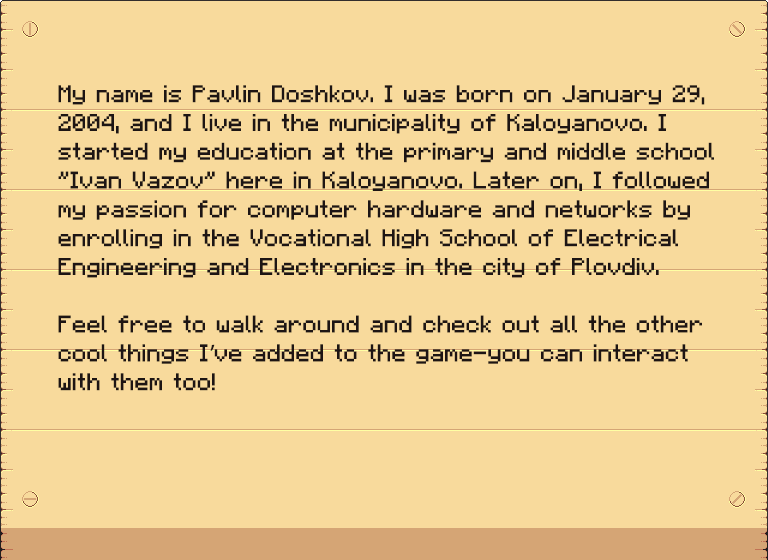
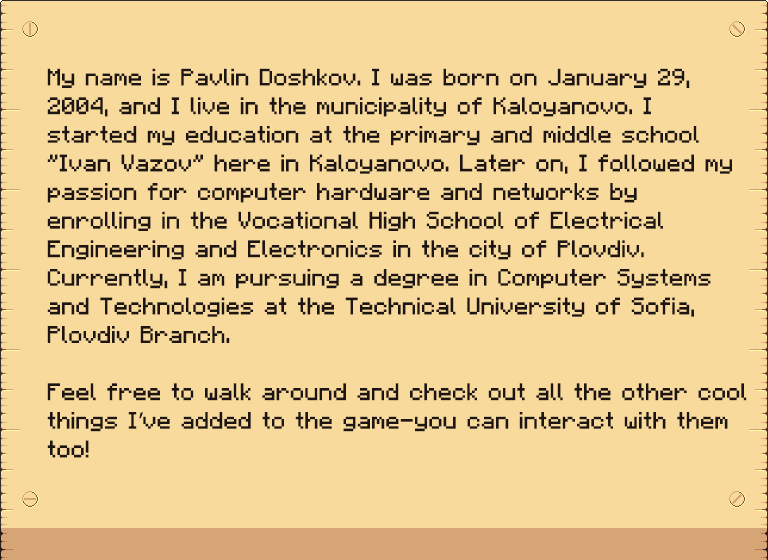
Finilizing the CV | Added more description for me!

Changed region(s): [[0.0312, 0.1214, 0.9688, 0.8196]]

diff --git a/src/triggers_manager.cpp b/src/triggers_manager.cpp
@@ -12,10 +12,22 @@ Triggers::Triggers(const float& TileSize, const float& Scale, const int& ScreenW
 	m_TileSize(TileSize),
 	m_Scale(Scale),
 	m_OpacityBoxPosition({ 0,0 }),
-	m_OpacityBoxSize({ (float)ScreenWidth * 2, (float)ScreenHeight * 2 }),
-	m_GroundMap(groundMap)
+	m_OpacityBoxSize({ (float)ScreenWidth * 3, (float)ScreenHeight * 3 }),
+	m_GroundMap(groundMap),
+	m_NoteCycleErasmus(STATE_INTRO),
+	m_NoteCycleUniversity(STATE_INTRO),
+	m_OsuCycle(STATE_INTRO)
 {
-	m_Scroll = LoadFilteredTexture(RESOURCES_PATH "Map/description of me.png");
+	m_Board = LoadFilteredTexture(RESOURCES_PATH "Map/description of me.png");
+	m_Board2 = LoadFilteredTexture(RESOURCES_PATH "Map/description of work at btl.png");
+	m_Board3_1 = LoadFilteredTexture(RESOURCES_PATH "Map/description of Erasmus1.png");
+	m_Board3_2 = LoadFilteredTexture(RESOURCES_PATH "Map/description of Erasmus2.png");
+	m_Board3_3 = LoadFilteredTexture(RESOURCES_PATH "Map/description of Erasmus3.png");
+	m_Board4_1 = LoadFilteredTexture(RESOURCES_PATH "Map/description of university1.png");
+	m_Board4_2 = LoadFilteredTexture(RESOURCES_PATH "Map/description of university2.png");
+	m_Board4_4 = LoadFilteredTexture(RESOURCES_PATH "Map/description of university3.png");
+	m_Board4_3 = LoadFilteredTexture(RESOURCES_PATH "Map/description of university4.png");
+	m_OsuNote = LoadFilteredTexture(RESOURCES_PATH "Map/osuletter1.png");
 	m_E_Letter = LoadFilteredTexture(RESOURCES_PATH "letters/letter_e_press.png");
 	m_Q_Letter = LoadFilteredTexture(RESOURCES_PATH "letters/letter_q_press.png");
 	m_BookDesk = LoadFilteredTexture(RESOURCES_PATH "pop-ups/5-manga+comment.png");
@@ -31,7 +43,15 @@ Triggers::Triggers(const float& TileSize, const float& Scale, const int& ScreenW
 }
 
 Triggers::~Triggers() {
-	UnloadTexture(m_Scroll);
+	UnloadTexture(m_Board);
+	UnloadTexture(m_Board2);
+	UnloadTexture(m_Board3_1);
+	UnloadTexture(m_Board3_2);
+	UnloadTexture(m_Board3_3);
+	UnloadTexture(m_Board4_1);
+	UnloadTexture(m_Board4_2);
+	UnloadTexture(m_Board4_3);
+	UnloadTexture(m_Board4_4);
 	UnloadTexture(m_E_Letter);
 	UnloadTexture(m_Q_Letter);
 	UnloadTexture(m_BookDesk);
@@ -99,6 +119,9 @@ void Triggers::update(const Vector2& Pos, std::function<void(Vector2)> changePos
 		m_NoteTrigger.updateTrigger(correctCollision, m_TriggersLevel[Scene::Level::village][TRIGGER_NOTE]);
 		m_TelescopeTrigger.updateTrigger(correctCollision, m_TriggersLevel[Scene::Level::village][TRIGGER_TELESCOPE]);
 		m_BookTrigger.updateTrigger(correctCollision, m_TriggersLevel[Scene::Level::village][TRIGGER_BOOK]);
+		m_NoteTrigger2.updateTrigger(correctCollision, m_TriggersLevel[Scene::Level::village][TRIGGER_NOTE2]);
+		m_NoteTrigger3_1.updateTrigger(correctCollision, m_TriggersLevel[Scene::Level::village][TRIGGER_NOTE3]);
+		m_NoteTrigger4_1.updateTrigger(correctCollision, m_TriggersLevel[Scene::Level::village][TRIGGER_NOTE4]);
 		break;
 	}
 	case Scene::Level::insideHouse: {
@@ -145,7 +168,7 @@ void Triggers::draw(const Vector2& Pos, const Vector2& cameraPos, Scene::Level c
 	}
 	if (m_NoteTrigger.isActive()) {
 		DrawRectangleV(m_OpacityBoxPosition, m_OpacityBoxSize, Fade(BLACK, 0.75));
-		DrawTexture(m_Scroll, cameraPos.x - 400, cameraPos.y - 300, WHITE);
+		DrawTexture(m_Board, cameraPos.x - 400, cameraPos.y - 300, WHITE);
 		DrawTexture(m_Q_Letter, cameraPos.x - 100, cameraPos.y + 300, WHITE);
 	}
 
@@ -161,25 +184,44 @@ void Triggers::draw(const Vector2& Pos, const Vector2& cameraPos, Scene::Level c
 		DrawTexture(m_E_Letter, Pos.x + 5, Pos.y - 5, WHITE);
 	}
 
-
 	if (m_TvTrigger.isActive()) {
-		m_FrameCounter++;
 
-		if (m_FrameCounter >= m_FrameDelay)
-		{
-			m_CurrentAnimFrame++;
-			if (m_CurrentAnimFrame >= m_Frames) m_CurrentAnimFrame = 0;
-
-			m_NextFrameDataOffset = m_AnimOsu.width * m_AnimOsu.height * 4 * m_CurrentAnimFrame;
-
-			UpdateTexture(m_AnimOsu, ((unsigned char*)m_AnimOsuImage.data) + m_NextFrameDataOffset);
-
-			m_FrameCounter = 0;
+		if (IsKeyPressed(KEY_E)) {
+			++m_OsuCycle;
+			m_OsuCycle %= 3;
 		}
 		DrawRectangleV(m_OpacityBoxPosition, m_OpacityBoxSize, Fade(BLACK, 0.75));
-		DrawTexture(m_TexTv, m_GroundMap[28][0].x, m_GroundMap[0][3].y, WHITE);
-		DrawTexture(m_AnimOsu, m_GroundMap[32][0].x - m_TileSize, m_GroundMap[0][7].y + m_TileSize, WHITE);
-		DrawTexture(m_Q_Letter, m_GroundMap[34][0].x + (m_TileSize * 2), m_GroundMap[0][14].y, WHITE);
+		switch (m_OsuCycle) {
+		case STATE_INTRO: {
+			DrawTexture(m_OsuNote, cameraPos.x - 400, cameraPos.y - 300, WHITE);
+			DrawTexture(m_Q_Letter, cameraPos.x - 105, cameraPos.y + 250, WHITE);
+			break;
+		}
+		case STATE_DESCRIPTION: {
+			m_FrameCounter++;
+			if (m_FrameCounter >= m_FrameDelay)
+			{
+				m_CurrentAnimFrame++;
+				if (m_CurrentAnimFrame >= m_Frames) m_CurrentAnimFrame = 0;
+
+				m_NextFrameDataOffset = m_AnimOsu.width * m_AnimOsu.height * 4 * m_CurrentAnimFrame;
+
+				UpdateTexture(m_AnimOsu, ((unsigned char*)m_AnimOsuImage.data) + m_NextFrameDataOffset);
+
+				m_FrameCounter = 0;
+			}
+
+			DrawTexture(m_TexTv, m_GroundMap[31][0].x + 8, m_GroundMap[0][7].y, WHITE);
+			DrawTexture(m_AnimOsu, m_GroundMap[32][0].x - m_TileSize, m_GroundMap[0][7].y + m_TileSize, WHITE);
+			DrawTexture(m_Q_Letter, m_GroundMap[34][0].x + (m_TileSize * 2), m_GroundMap[0][14].y, WHITE);
+			break;
+		}
+		default:
+			break;
+		}
+	}
+	else {
+		m_OsuCycle = 0;
 	}
 
 	if (m_BookTrigger.isPrompting()) {
@@ -200,5 +242,89 @@ void Triggers::draw(const Vector2& Pos, const Vector2& cameraPos, Scene::Level c
 		DrawRectangleV(m_OpacityBoxPosition, m_OpacityBoxSize, BLACK);
 		DrawTexture(m_TexTelescope, cameraPos.x - 475, cameraPos.y - 300, WHITE);
 		DrawTexture(m_Q_Letter, cameraPos.x - 75, cameraPos.y + 225, WHITE);
+	}
+
+	if (m_NoteTrigger2.isPrompting()) {
+		DrawTexture(m_E_Letter, Pos.x + 5, Pos.y - 5, WHITE);
+	}
+
+	if (m_NoteTrigger2.isActive()) {
+		DrawRectangleV(m_OpacityBoxPosition, m_OpacityBoxSize, Fade(BLACK, 0.75));
+		DrawTexture(m_Board2, cameraPos.x - 400, cameraPos.y - 300, WHITE);
+		DrawTexture(m_Q_Letter, cameraPos.x - 75, cameraPos.y + 300, WHITE);
+	}
+
+
+	if (m_NoteTrigger3_1.isPrompting()) {
+		DrawTexture(m_E_Letter, Pos.x + 5, Pos.y - 5, WHITE);
+	}
+
+	if (m_NoteTrigger3_1.isActive()) {
+		if (IsKeyPressed(KEY_E)) {
+			++m_NoteCycleErasmus;
+			m_NoteCycleErasmus %= 3;
+		}
+		DrawRectangleV(m_OpacityBoxPosition, m_OpacityBoxSize, Fade(BLACK, 0.75));
+		switch (m_NoteCycleErasmus) {
+		case STATE_INTRO: {
+			DrawTexture(m_Board3_1, cameraPos.x - 400, cameraPos.y - 300, WHITE);
+			DrawTexture(m_Q_Letter, cameraPos.x - 75, cameraPos.y + 300, WHITE);
+			break;
+			}
+		case STATE_DESCRIPTION: {
+			DrawTexture(m_Board3_2, cameraPos.x - 400, cameraPos.y - 300, WHITE);
+			DrawTexture(m_Q_Letter, cameraPos.x - 75, cameraPos.y + 300, WHITE);
+			break;
+			}
+		case STATE_ENDING: {
+			DrawTexture(m_Board3_3, cameraPos.x - 400, cameraPos.y - 300, WHITE);
+			DrawTexture(m_Q_Letter, cameraPos.x - 75, cameraPos.y + 300, WHITE);
+			break;
+			}
+		default:
+			break;
+		}
+	}
+	else {
+		m_NoteCycleErasmus = 0;
+	}
+
+	if (m_NoteTrigger4_1.isPrompting()) {
+		DrawTexture(m_E_Letter, Pos.x + 5, Pos.y - 5, WHITE);
+	}
+
+	if (m_NoteTrigger4_1.isActive()) {
+		if (IsKeyPressed(KEY_E)) {
+			++m_NoteCycleUniversity;
+			m_NoteCycleUniversity %= 4;
+		}
+		DrawRectangleV(m_OpacityBoxPosition, m_OpacityBoxSize, Fade(BLACK, 0.75));
+		switch (m_NoteCycleUniversity) {
+		case STATE_INTRO: {
+			DrawTexture(m_Board4_1, cameraPos.x - 400, cameraPos.y - 300, WHITE);
+			DrawTexture(m_Q_Letter, cameraPos.x - 75, cameraPos.y + 300, WHITE);
+			break;
+		}
+		case STATE_DESCRIPTION: {
+			DrawTexture(m_Board4_2, cameraPos.x - 400, cameraPos.y - 300, WHITE);
+			DrawTexture(m_Q_Letter, cameraPos.x - 75, cameraPos.y + 300, WHITE);
+			break;
+		}
+		case STATE_DESCRIPTION2: {
+			DrawTexture(m_Board4_4, cameraPos.x - 400, cameraPos.y - 300, WHITE);
+			DrawTexture(m_Q_Letter, cameraPos.x - 75, cameraPos.y + 300, WHITE);
+			break;
+		}
+		case STATE_ENDING: {
+			DrawTexture(m_Board4_3, cameraPos.x - 400, cameraPos.y - 300, WHITE);
+			DrawTexture(m_Q_Letter, cameraPos.x - 75, cameraPos.y + 300, WHITE);
+			break;
+		}
+		default:
+			break;
+		}
+	}
+	else {
+		m_NoteCycleUniversity = 0;
 	}
 }

diff --git a/include/triggers_manager.h b/include/triggers_manager.h
@@ -10,7 +10,10 @@ private:
 		TRIGGER_NOTE,
 		TRIGGER_ENTER_EXIT_HOUSE,
 		TRIGGER_BOOK,
-		TRIGGER_TELESCOPE
+		TRIGGER_TELESCOPE,
+		TRIGGER_NOTE2,
+		TRIGGER_NOTE3,
+		TRIGGER_NOTE4
 	};
 
 	enum InteractionObjectsInsideHouse {
@@ -21,6 +24,13 @@ private:
 		STATE_INACTIVE,
 		STATE_PROMPT,
 		STATE_ACTIVE
+	};
+
+	enum NoteCycle {
+		STATE_ENDING,
+		STATE_INTRO,
+		STATE_DESCRIPTION,
+		STATE_DESCRIPTION2
 	};
 
 	struct TriggerInteraction {
@@ -57,6 +67,9 @@ private:
 	TriggerInteraction m_BookTrigger;
 	TriggerInteraction m_TelescopeTrigger;
 	TriggerInteraction m_NoteTrigger;
+	TriggerInteraction m_NoteTrigger2;
+	TriggerInteraction m_NoteTrigger3_1;
+	TriggerInteraction m_NoteTrigger4_1;
 
 	bool m_EnterHousePrompt;
 	bool m_ExitHousePrompt;
@@ -67,16 +80,29 @@ private:
 	int m_FrameCounter;
 	unsigned int m_NextFrameDataOffset;
 
+	int m_NoteCycleErasmus;
+	int m_NoteCycleUniversity;
+	int m_OsuCycle;
+
 	Vector2 m_OpacityBoxPosition;
 	Vector2 m_OpacityBoxSize;
 
 	std::vector<std::vector<Rectangle>> m_TriggersLevel;
 
-	Texture2D m_Scroll;
+	Texture2D m_Board;
+	Texture2D m_Board2;
+	Texture2D m_Board3_1;
+	Texture2D m_Board3_2;
+	Texture2D m_Board3_3;
+	Texture2D m_Board4_1;
+	Texture2D m_Board4_2;
+	Texture2D m_Board4_3;
+	Texture2D m_Board4_4;
 	Texture2D m_E_Letter;
 	Texture2D m_Q_Letter;
 	Texture2D m_AnimOsu;
 	Texture2D m_TexTv;
+	Texture2D m_OsuNote;
 	Texture2D m_TexTelescope;
 
 	Texture2D m_BookDesk;

diff --git a/src/props.cpp b/src/props.cpp
@@ -38,18 +38,11 @@ Props::Props(const float& TileSize, const float& Scale, const std::array<std::ar
 }
 
 Props::~Props() {
-	UnloadTexture(m_Board);
-	UnloadTexture(m_House);
-	UnloadTexture(m_Campfire);
-	UnloadTexture(m_Table);
-	UnloadTexture(m_Tree);
-	UnloadTexture(m_CutTree);
-	UnloadTexture(m_TreeRiver);
-	UnloadTexture(m_Tree3);
-	UnloadTexture(m_InsideChair);
-	UnloadTexture(m_Telescope);
 	for (int i = 0; i < 4; i++) {
 		UnloadTexture(m_Lamp[i]);
+	}
+	for (int i = 0; i < TEX_COUNT; i++) {
+		UnloadTexture(m_TextureMapID[i]);
 	}
 }
 

diff --git a/include/props.h b/include/props.h
@@ -11,19 +11,7 @@ private:
 	std::unordered_map<int, Texture2D> m_TextureMapID;
 
 	Image m_Image;
-	Texture2D m_Board;
-	Texture2D m_House;
-	Texture2D m_Campfire;
 	Texture2D m_Lamp[4];
-	Texture2D m_Table;
-	Texture2D m_Tree;
-	Texture2D m_TreeRiver;
-	Texture2D m_Tree3;
-	Texture2D m_CutTree;
-	Texture2D m_InsideChair;
-	Texture2D m_Book;
-	Texture2D m_Telescope;
-
 
 public:
 	struct propEntry {

diff --git a/src/Game.cpp b/src/Game.cpp
@@ -11,7 +11,7 @@ Game::Game() : m_DeltaTime(0.0f),
 {
 	init();
 	m_UI->Init();
-	m_Props->loadPropsCoordsFromJSON(RESOURCES_PATH "props.json");
+	m_Props->loadPropsCoordsFromJSON(RESOURCES_PATH "propslayer.json");
 	m_Props->loadPropsTextureCoordsFromJSON(RESOURCES_PATH "propsdraw.json");
 	m_Triggers->loadTriggersFromJSON(RESOURCES_PATH "triggers.json");
 }

diff --git a/src/ui_manager.cpp b/src/ui_manager.cpp
@@ -3,7 +3,6 @@
 UIManager::UIManager()
 {
     m_Image = LoadImage(RESOURCES_PATH "pop-ups/2-adventurer.png");
-    ImageResize(&m_Image, m_Image.width * 1.67, m_Image.height * 1.30);
     m_Background = LoadTextureFromImage(m_Image);
     UnloadImage(m_Image);
 }
